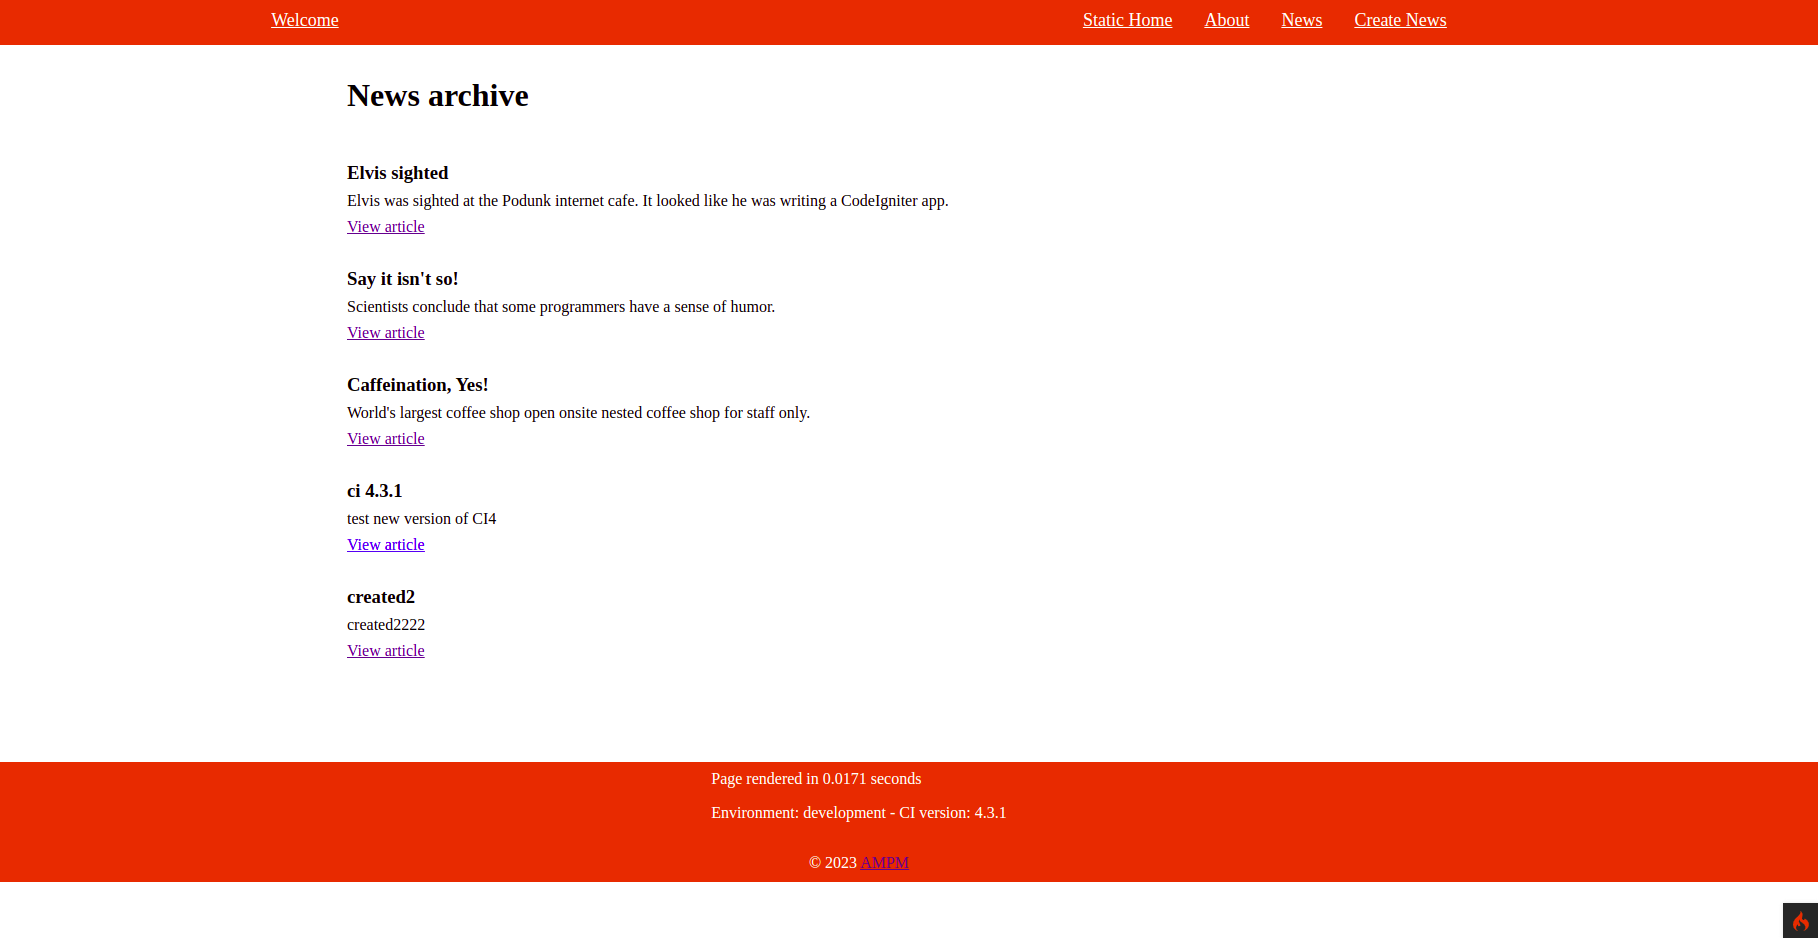
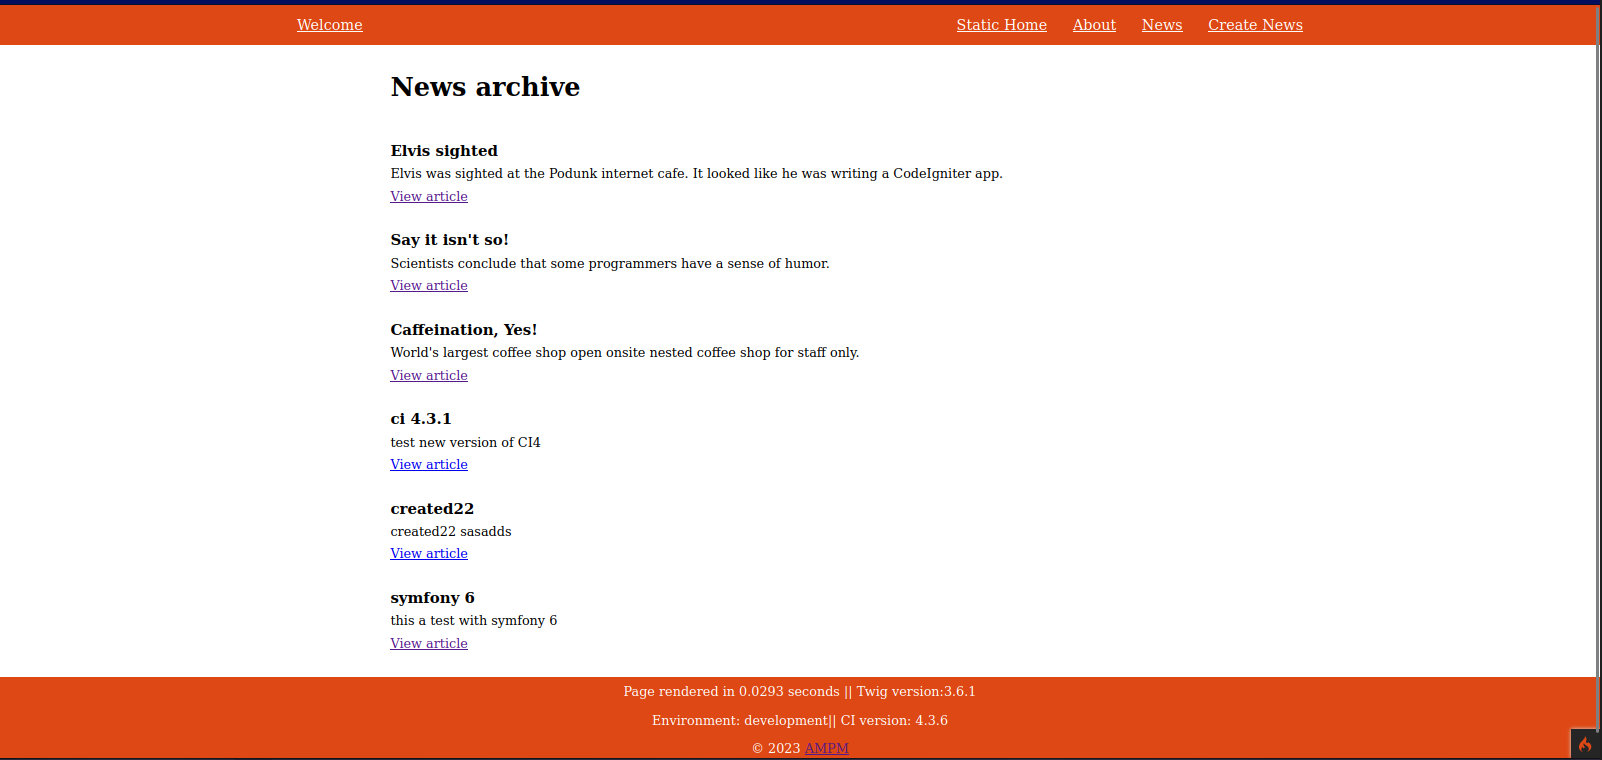
Readme: updated readme and respetive images

diff --git a/README.md b/README.md
@@ -1,32 +1,30 @@
-# CodeIgniter 4 - Build Your First Application
+# CodeIgniter 4  with Twig 3 template engine
 
 ## About the project?
 
-Base on Docs of CI4:
+Base on my improved version of `ci4 - Build Your First Application`:
 
-[Build Your First Application](https://codeigniter.com/user_guide/tutorial/).
-
-With new feature added for better understanding the framework
+[Original improved](https://github.com/ampmonteiro/ci4-build-your-first-App).
 
 What was added:
 
-- taking advantages of layout system
-- Edit news item
-- remove news item
-- used of form_open helper
-- better routes organization
-- better visual
+- Alternative template Engine
 
 ## What was used
 
 - php: 8.1
 - mysql: 8
 - Docker
-- CodeIgniter: 4.3.1
+- CodeIgniter: 4.3.6
+- Twig: 3.6.1 -> [more about](https://twig.symfony.com/)
+
+## side by side template code (Twig vs Vanilla Ci4 template engine)
+
+![Twig template engine VS Ci4 Template engine](twig_vs_ci4_template.png 'Twig template engine VS Ci4 Template engine')
 
 ## image of the App
 
-![CI4 News-Improved](app_screen.png 'News APp')
+![CI4 News-Improved](app_screen.png 'News CI4 + Twig')
 
 ## Editor and Recommend extensions
 
@@ -42,6 +40,8 @@ What was added:
   - [Docker](https://marketplace.visualstudio.com/items?itemName=ms-azuretools.vscode-docker) (By Microsoft): to manage docker containers in vs code
   - [Dev Containers](https://marketplace.visualstudio.com/items?itemName=ms-vscode-remote.remote-containers) (By Microsoft): to use vscode inside of the container.
 
+  - [TWIG pack](https://marketplace.visualstudio.com/items?itemName=bajdzis.vscode-twig-pack) (By Bajdzis)
+
 ## Setup (using docker without compose)
 
 php image: read the Dockerfile
@@ -55,5 +55,5 @@ docker run --name db_ci \
      -e MYSQL_DATABASE=ci4 \
      -e MYSQL_USER=dev \
      -e MYSQL_PASSWORD=secret \
-     -dp 3307:3306 mysql;
+     -dp 3306:3306 mysql;
 ```
